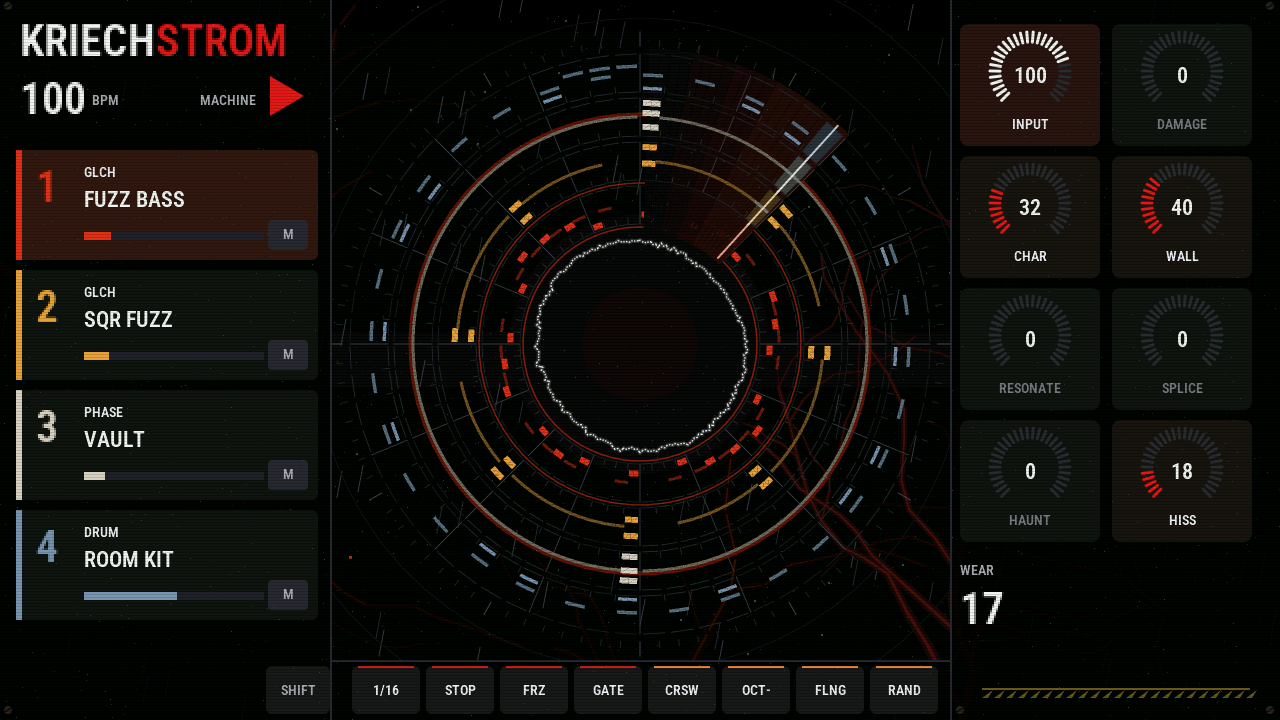
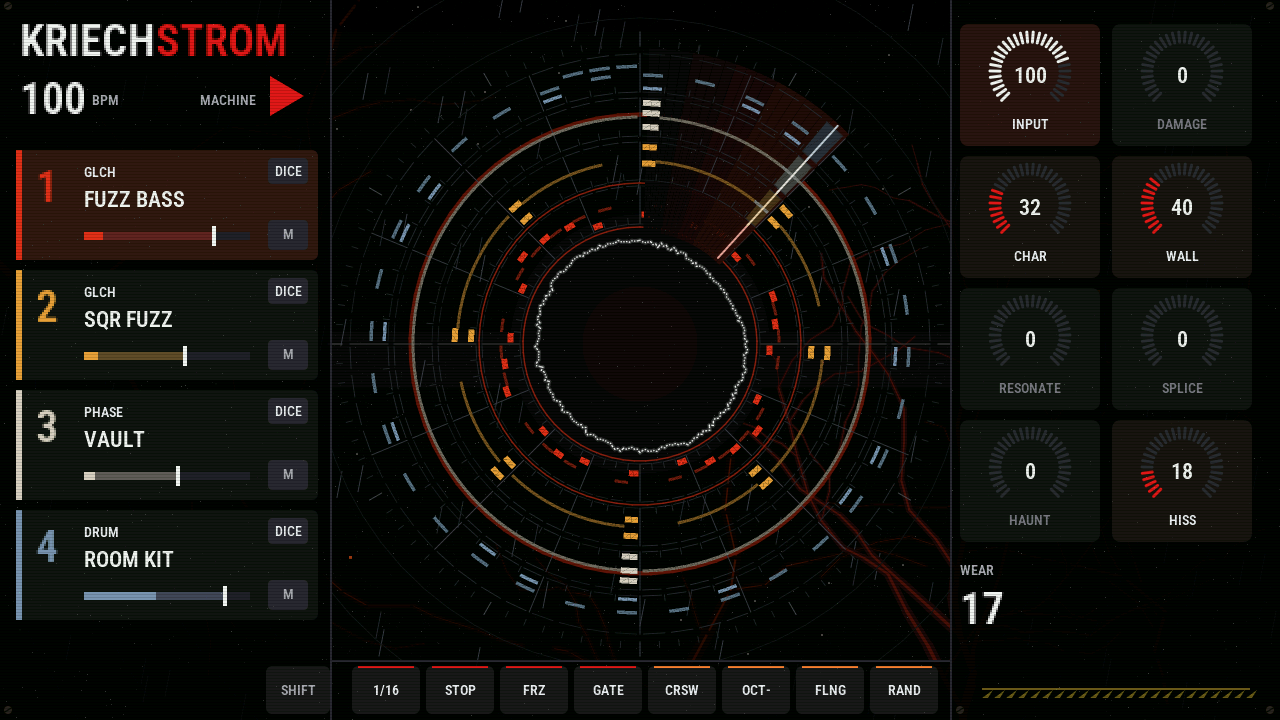
0.5.13: the stage anew, in its gloom, with each track's DICE, mute and level, the tempo and the MOOD on it; the site in numbered blocks

diff --git a/site/ru.html b/site/ru.html
@@ -34,6 +34,7 @@
 она открыта в браузере, ничего ставить не нужно; нажми PLAY, заиграет демо-песня. В DAW она работает в бесплатном
 <a href="https://thefirmwarehub.com/convert/#plugdl">плагине VIBE FM</a>: перетащи <code>kriechstrom.zip</code> на его окно.</p>
 
+<div class="cut" aria-hidden="true"><span class="cut-n">01</span><span class="cut-t">ИЗНОС</span></div>
 <div class="split wear">
   <img class="screen" src="media/wear.webp" alt="Экран VIBE, пока поднимаются DAMAGE, CHAR, HISS и WALL" width="480" height="320" loading="lazy">
   <div>
@@ -46,7 +47,7 @@
   </div>
 </div>
 
-<hr class="rule">
+<div class="cut" aria-hidden="true"><span class="cut-n">02</span><span class="cut-t">ЭКРАНЫ</span></div>
 <h2 class="sec">Каждую страницу видно</h2>
 <p class="intro">Крупный шрифт, который читается издалека, четыре дорожки всегда сверху, и у каждого эффекта картинка
 того, что он делает прямо сейчас.</p>
@@ -62,18 +63,19 @@
 </div>
 <p class="cap">Клик по экрану покажет его крупно, дальше листай. Все страницы есть в <a href="manual/ru.html">мануале</a>.</p>
 
-<hr class="rule">
+<div class="cut" aria-hidden="true"><span class="cut-n">03</span><span class="cut-t">СЦЕНА</span></div>
 <h2 class="sec">Сцена: вся машина на одном большом экране</h2>
 <p class="intro">Открой её рядом с устройством (в плеере хаба: View &gt; Stage) и играй четырьмя дорожками, мастером и
 эффектами мышью или пальцами на сенсорном экране.</p>
 <img class="wide reveal" src="shots/stage.png" alt="Сцена: четыре паттерна, разряд, цепочка мастера" width="1280" height="720" loading="lazy">
 <p class="cap">Сцена: вся машина на втором, большом экране, все четыре паттерна и мастер сразу. В плеере хаба: View &gt; Stage.</p>
 
-<hr class="rule">
+<div class="cut" aria-hidden="true"><span class="cut-n">04</span><span class="cut-t">ИМЯ</span></div>
 <div class="split fig reveal"><img src="media/figure.jpg" alt="Фигура Лихтенберга" width="900" height="900" loading="lazy">
 <p class="lead">Kriechstrom по-немецки ток утечки: он ползёт по стареющей изоляции и оставляет ветвистый след, как этот,
 фигуру Лихтенберга. На VIBE она растёт за каждой страницей, пока мастер изнашивает микс.</p></div>
 
+<div class="cut" aria-hidden="true"><span class="cut-n">05</span><span class="cut-t">ВНУТРИ</span></div>
 <h2>Что внутри</h2>
 <ul class="feats grid reveal">
   <li><b>Тринадцать педалей, по три на каждой дорожке.</b> Фузз, мафф, крош, смэш, DAMG, который жрёт сигнал, и INFCT,
@@ -90,6 +92,7 @@
     на остальное железо, ножная педаль на DAMAGE.</li>
 </ul>
 
+<div class="cut" aria-hidden="true"><span class="cut-n">06</span><span class="cut-t">ШПАРГАЛКА</span></div>
 <h2 id="cheat">Шпаргалка</h2>
 <p>На устройстве то же самое для текущей страницы показывает HOME. Энкодеры 1-4 всегда крутят четыре значения над
 F1-F4; <kbd>&lt;</kbd> <kbd>&gt;</kbd> листают страницы группы, её кнопка (SOUND .. SEQ) ещё раз делает то же.</p>

diff --git a/site/index.html b/site/index.html
@@ -34,6 +34,7 @@
 your browser, nothing to install; press PLAY and the demo song starts. In your DAW it runs in the free
 <a href="https://thefirmwarehub.com/convert/#plugdl">VIBE FM plugin</a>: drop <code>kriechstrom.zip</code> onto its window.</p>
 
+<div class="cut" aria-hidden="true"><span class="cut-n">01</span><span class="cut-t">IT WEARS</span></div>
 <div class="split wear">
   <img class="screen" src="media/wear.webp" alt="The VIBE's display while DAMAGE, CHAR, HISS and WALL are turned up" width="480" height="320" loading="lazy">
   <div>
@@ -46,7 +47,7 @@ your browser, nothing to install; press PLAY and the demo song starts. In your D
   </div>
 </div>
 
-<hr class="rule">
+<div class="cut" aria-hidden="true"><span class="cut-n">02</span><span class="cut-t">THE SCREENS</span></div>
 <h2 class="sec">Every page made to be seen</h2>
 <p class="intro">Big type you can read across the room, the four tracks always on top, and for every effect a picture of
 what it is doing right now.</p>
@@ -62,7 +63,7 @@ what it is doing right now.</p>
 </div>
 <p class="cap">Click a screen to see it big, then flip through. Every page is in the <a href="manual/en.html">manual</a>.</p>
 
-<hr class="rule">
+<div class="cut" aria-hidden="true"><span class="cut-n">03</span><span class="cut-t">THE STAGE</span></div>
 <h2 class="sec">The stage: the whole machine on one big screen</h2>
 <p class="intro">Open it next to the device (in the Web Player: View &gt; Stage) and play the four tracks, the master
 and the effects with the mouse, or with your fingers on a touch screen.</p>
@@ -70,11 +71,12 @@ and the effects with the mouse, or with your fingers on a touch screen.</p>
 <p class="cap">The stage: the whole machine on a second, bigger screen, all four patterns and the master at once. In the
 Web Player: View &gt; Stage.</p>
 
-<hr class="rule">
+<div class="cut" aria-hidden="true"><span class="cut-n">04</span><span class="cut-t">THE NAME</span></div>
 <div class="split fig reveal"><img src="media/figure.jpg" alt="A Lichtenberg figure" width="900" height="900" loading="lazy">
 <p class="lead">Kriechstrom is German for creepage current: the leakage across worn insulation that leaves a branching
 mark like this one, a Lichtenberg figure. On the VIBE it grows behind every page as the master wears the mix out.</p></div>
 
+<div class="cut" aria-hidden="true"><span class="cut-n">05</span><span class="cut-t">INSIDE</span></div>
 <h2>What's inside</h2>
 <ul class="feats grid reveal">
   <li><b>Thirteen pedals, three on every track.</b> Fuzz, muff, crush, smash, DAMG that eats the signal, INFCT that
@@ -91,6 +93,7 @@ mark like this one, a Lichtenberg figure. On the VIBE it grows behind every page
     and CV out to the rest of your gear, a foot pedal on DAMAGE.</li>
 </ul>
 
+<div class="cut" aria-hidden="true"><span class="cut-n">06</span><span class="cut-t">CHEAT SHEET</span></div>
 <h2 id="cheat">Cheat sheet</h2>
 <p>HOME on the device shows the same for the page you are on. Encoders 1-4 always turn the four values above F1-F4;
 <kbd>&lt;</kbd> <kbd>&gt;</kbd> step through a family's pages, its key (SOUND .. SEQ) again does the same.</p>

diff --git a/site/style.css b/site/style.css
@@ -263,3 +263,13 @@ h2.sec { margin: 0 0 8px; font-size: 2em; }
 p.intro { margin: 0 0 22px; font-size: 1.12em; color: #c8c8cc; max-width: 760px; }
 .shots { grid-template-columns: repeat(4, 1fr); gap: 18px 14px; }   /* (eight screens: four and four) */
 @media (max-width: 900px) { .shots { grid-template-columns: repeat(2, 1fr); } }
+/* between the blocks: a full-width strip of current, the block's number and name on it, TE's way */
+.cut { position: relative; width: 100vw; margin: 90px 0 44px calc(50% - 50vw); height: 130px;
+  background: #000 url(media/band.jpg) center / cover no-repeat; border-top: 2px solid var(--red); border-bottom: 2px solid var(--red);
+  box-shadow: 0 0 40px rgba(230, 36, 20, .35); display: flex; align-items: center; justify-content: center; gap: 18px; }
+.cut::before { content: ""; position: absolute; inset: 0; background: linear-gradient(180deg, rgba(0,0,0,.55), rgba(0,0,0,.15) 50%, rgba(0,0,0,.55)); }
+.cut span { position: relative; font-family: "IBM Plex Mono", ui-monospace, monospace; letter-spacing: .14em; }
+.cut-n { background: #fff; color: #000; font-weight: 800; font-size: 26px; padding: 4px 10px; }
+.cut-t { color: #fff; font-weight: 800; font-size: 26px; text-shadow: 0 0 18px rgba(230,36,20,.9); }
+@media (max-width: 600px) { .cut { height: 90px; margin-top: 60px; } .cut-n, .cut-t { font-size: 18px; } }
+html, body { overflow-x: hidden; }   /* (the strips are as wide as the window) */

diff --git a/site/manual/ru.html b/site/manual/ru.html
@@ -208,7 +208,8 @@
   <li><b>Сцена</b> (плагин и плеер хаба: View &gt; Stage), 1280 x 720: четыре дорожки кольцами шагов вокруг центра (T1
     внутри), по каждому бежит стрелка, в середине фигура и звук мастера; дорожки слева, цепочка мастера справа, эффекты
     пэдов 9-16 снизу. Клик по шагу на кольце, ручки тянуть или крутить колесом, эффекты держать мышью или несколькими
-    пальцами.</li>
+    пальцами. На дорожке: DICE, M (мьют) и её уровень фейдером; темп тянуть или крутить колесом, клик по MOOD берёт
+    следующее.</li>
 </ul>
 
 <h2 id="credits">Благодарности и исходники</h2>

diff --git a/site/manual/en.html b/site/manual/en.html
@@ -206,7 +206,8 @@ for the microphone the first time.</p>
   <li><b>The stage</b> (the plugin and the Web Player: View &gt; Stage), 1280 x 720: the four tracks as rings of steps
     round the centre (T1 inside), a hand sweeping each, the figure and the master's sound in the middle; the tracks on
     the left, the master's chain on the right, pads 9-16's effects below. Click a step on a ring, drag or wheel a knob,
-    hold an effect with the mouse or with several fingers.</li>
+    hold an effect with the mouse or with several fingers. On a track: DICE, M (mute), its level as a fader to drag; the
+    tempo drags or turns with the wheel, a click on the MOOD takes the next one.</li>
 </ul>
 
 <h2 id="credits">Credits and source</h2>

diff --git a/kriechstrom/kx_stage.h b/kriechstrom/kx_stage.h
@@ -168,9 +168,17 @@ static void st_track_card(uint32_t k)            /* the left band: a track */
     vg_text(ENGINES[eng_idx(t->eng_req)]->name, 84, y + 14, VG_BOLD, mute ? 0x6A6A72 : TE_INK, VG_LEFT);
     sound_name(t, nm);
     vg_text(nm, 84, y + 36, VG_BIG, mute ? 0x6A6A72 : C_WHITE, VG_LEFT);
-    lv = (int)(vd_minf(kx_trk_pk[k] * 1.4f, 1.0f) * 180.0f);   /* (its level now) */
-    vg_rect(84, y + 82, 180, 8, 0x22222A);
-    vg_rect(84, y + 82, lv, 8, mute ? 0x5A5A60 : col);
+    {   /* its LEVEL, a fader to drag; the sound in it now */
+        const param_desc_t *d = &TP[P_LEVEL];
+        int fx = 84 + (int)((float)(t->p[P_LEVEL] - d->min) / (float)(d->max - d->min) * 166.0f);
+        lv = (int)(vd_minf(kx_trk_pk[k] * 1.4f, 1.0f) * (float)(fx - 84));
+        vg_rect(84, y + 82, 166, 8, 0x22222A);
+        vg_rect(84, y + 82, fx - 84, 8, vg_mix(0x22222A, col, 0.35f));
+        vg_rect(84, y + 82, lv, 8, mute ? 0x5A5A60 : col);
+        vg_rect(fx - 2, y + 76, 4, 20, C_WHITE);
+    }
+    vg_round(SB_LW - 62, y + 8, 40, 26, 4, 0x2A2A30);      /* DICE: a new part */
+    vg_text("DICE", SB_LW - 42, y + 13, VG_SMALL, TE_INK, VG_CENTER);
     vg_round(SB_LW - 62, y + 70, 40, 30, 4, mute ? C_RED : 0x2A2A30);
     vg_text("M", SB_LW - 42, y + 76, VG_BOLD, mute ? C_WHITE : TE_MID, VG_CENTER);
 }
@@ -382,6 +390,17 @@ void vibe_on_stage(uint16_t *fb, int w, int h)
     kx_wear_fx(fb, w, h);
 }
 
+static void st_level(uint32_t k, int x)          /* a track's LEVEL from where the pointer is on its fader */
+{
+    const param_desc_t *d = &TP[P_LEVEL];
+    int v = d->min + (int)((float)clamp(x - 84, 0, 166) / 166.0f * (float)(d->max - d->min) + 0.5f);
+    kx_post(KXC_PARAM, k, P_LEVEL, 0, v);
+}
+static void st_bpm(int d)
+{
+    kx_post(KXC_PARAM, NTRK, G_BPM, 0, clamp(song.g[G_BPM] + d, GP[G_BPM].min, GP[G_BPM].max));
+}
+
 /* the stage's input: clicks, drags, the wheel and fingers (pointers 0-9), in stage pixels */
 static int st_ptr[10] = {-1, -1, -1, -1, -1, -1, -1, -1, -1, -1};   /* what each pointer holds: 100 + knob, 200 + slot */
 static int st_ptr_y[10];
@@ -429,6 +448,20 @@ static void kx_stage_event(const vibe_event *e)
             sk_turn(st_ptr[p] - 100, d), st_ptr_y[p] = y;
         return;
     }
+    if (e->id == VIBE_STAGE_MOVE && st_ptr[p] >= 300 && st_ptr[p] < 304) {   /* a level dragged */
+        st_level((uint32_t)(st_ptr[p] - 300), x);
+        return;
+    }
+    if (st_ptr[p] == 400 && e->id == VIBE_STAGE_MOVE) {   /* the tempo dragged */
+        int d = (st_ptr_y[p] - y) / 4;
+        if (d)
+            st_bpm(d), st_ptr_y[p] = y;
+        return;
+    }
+    if (e->id == VIBE_STAGE_WHEEL && x < 160 && y >= 70 && y < 130) {
+        st_bpm(e->value > 0 ? 1 : -1);
+        return;
+    }
     if (e->id != VIBE_STAGE_DOWN)
         return;
     if (y >= SB_BY && x >= SB_LW - 64 && x < SB_RX) {   /* the effects, held; SHIFT */
@@ -448,9 +481,17 @@ static void kx_stage_event(const vibe_event *e)
         }
         return;
     }
-    if (x < SB_LW) {                              /* the left band: play, a track, its M */
+    if (x < SB_LW) {                              /* the left band: play, the tempo, the MOOD, a track, its M */
         if (y >= 70 && y < 130 && x >= SB_LW - 70) {
             kx_post(KXC_PLAY, 3, 0, 0, 0);
+            return;
+        }
+        if (y >= 70 && y < 130 && x < 160) {      /* the tempo: drag it, or the wheel */
+            st_ptr[p] = 400, st_ptr_y[p] = y;
+            return;
+        }
+        if (y >= 70 && y < 130) {                 /* the MOOD for DICE: the next */
+            kx_post(KXC_TOOL, song.sel, TL_MOOD, 0, 0);
             return;
         }
         if (y >= 150 && y < 150 + 4 * 120) {
@@ -460,7 +501,12 @@ static void kx_stage_event(const vibe_event *e)
                 return;
             if (x >= SB_LW - 62 && x < SB_LW - 22 && ly >= 70 && ly < 100)
                 kx_post(KXC_MUTE, k, 0, 0, 0);
-            else
+            else if (x >= SB_LW - 62 && x < SB_LW - 22 && ly >= 8 && ly < 34)
+                kx_post(KXC_TOOL, k, TL_DICE, 0, 0);
+            else if (x >= 76 && x < 258 && ly >= 70 && ly < 104) {   /* the level: where clicked, then dragged */
+                st_ptr[p] = 300 + (int)k;
+                st_level(k, x);
+            } else
                 kx_post(KXC_SEL, k, 0, 0, 0);
         }
         return;

diff --git a/kriechstrom/kx_hal.h b/kriechstrom/kx_hal.h
@@ -17,7 +17,7 @@ char *strchr(const char *s, int c);
 #endif
 #define FELUCCA_CDC 0
 #define FELUCCA_FLASH 0
-#define FELUCCA_VERSION "0.5.12"
+#define FELUCCA_VERSION "0.5.13"
 #define FM1_TICKS_PER_US 1u
 #define FM1_NCOL 11u
 #define __attribute__(x)

diff --git a/README.md b/README.md
@@ -60,7 +60,8 @@ mark grows behind every page as the master wears the mix out.
 - **The stage (1280 x 720):** the four tracks as four rings of steps round the centre, a hand sweeping each; in the
   middle the figure the drums grow inside the master's sound as a ring. The tracks on the left, the master's chain on
   the right, the pads' effects below. Steps, tracks, mutes and knobs can be clicked, dragged or turned with the wheel,
-  the effects held with the mouse or several fingers; each also has its control on the device.
+  the effects held with the mouse or several fingers; each track has DICE, mute and its level as a fader, the tempo
+  drags, the MOOD clicks on; each also has its control on the device.
 - **The DAW:** each track's mixer (the SDK's `mix_<n>_*`), its sound, envelope and sends, the master's effects as
   parameters; its transport and tempo; projects and settings stored with the DAW project. Under VIBE FM Link the
   controller shows the page's name and its four values.

diff --git a/CHANGELOG.md b/CHANGELOG.md
@@ -5,10 +5,19 @@ All notable changes to KRIECHSTROM for VIBE FM. The format follows
 
 ## [Unreleased]
 
+## [0.5.13] - 2026-11-24
+
+On KRIECHSTROM 0.5.2 for the FM-1.
+
 ### Changed
 - the stage, drawn anew at 1280 x 720: the four tracks as rings of steps round the centre with a hand sweeping each,
   the figure and the master's sound in the middle, words only in their own bands (the tracks, the master's chain, the
-  pads' effects, held with the mouse or several fingers)
+  pads' effects, held with the mouse or several fingers), in its gloom: soot and old scars underfoot, rain, ash and
+  smoke, a shock ring from every kick, the selected track's sweep leaving a trail
+- on the stage each track has DICE, mute and its level as a fader; the tempo drags or turns with the wheel, the MOOD
+  clicks on to the next
+- the hub's card: the figure with the name across its middle
+- the site: each block under its own strip, the screens four and four
 
 ## [0.5.12] - 2026-11-24
 

diff --git a/docs/release-0.5.13.md b/docs/release-0.5.13.md
@@ -1,0 +1,9 @@
+KRIECHSTROM for VIBE FM 0.5.13, on KRIECHSTROM 0.5.2 for the FM-1.
+
+- the stage drawn anew at 1280 x 720: the four tracks as rings of steps round the centre, the figure and the master's
+  sound in the middle, rain, ash, smoke and a shock ring from every kick; words only in their own bands
+- on the stage: steps on the rings, each track's DICE, mute and level, the tempo, the MOOD, the master's chain, and
+  pads 9-16's effects held with the mouse or several fingers at once
+
+Files: `kriechstrom.wasm` (the Playground: Load your own .wasm, or drop it onto the device), `kriechstrom.zip`
+(the VIBE FM plugin: drop it onto its window). The source is this tag; `git clone --recursive` brings KRIECHSTROM's core with it.
